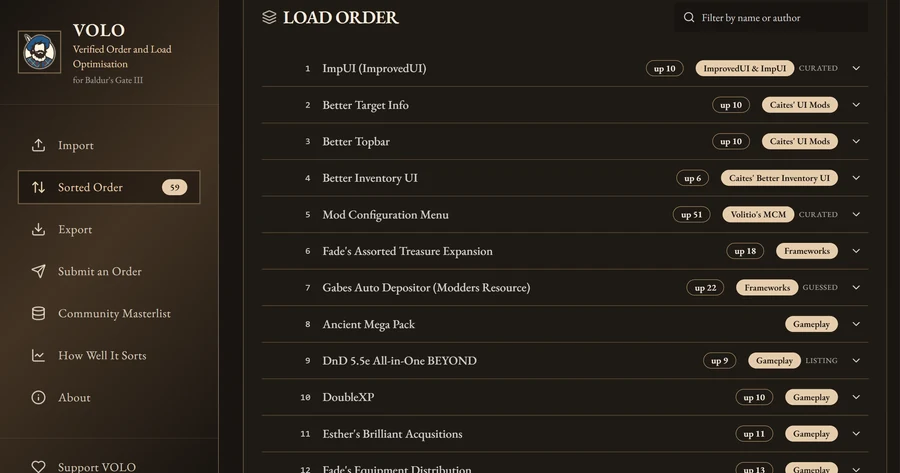
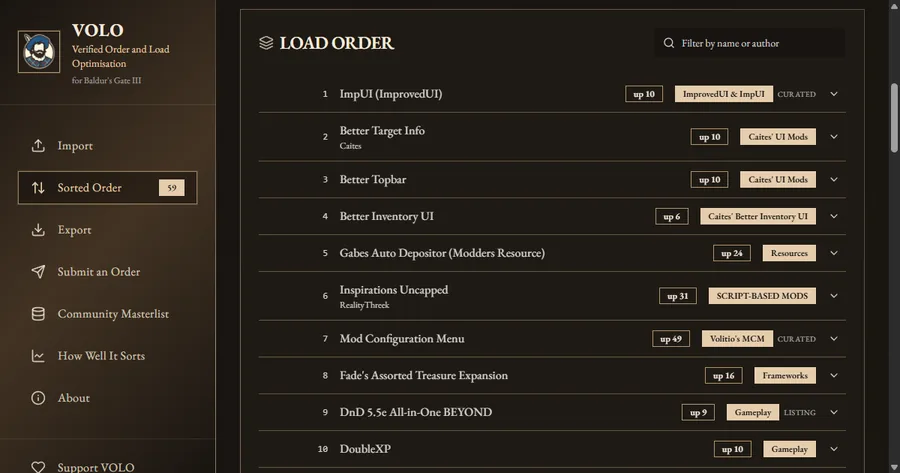
Square the corners the first pass missed, and reshoot the screenshot
Only rounded-sm, md and lg are wired to --radius. Everything else Tailwind
offers is a literal, and four places still used one after badges were squared:
every mod row in the sorted order, the two loading skeletons behind it, and the
export preview block. Fifty-nine rows a page, so it was the most visible corner
radius left on the site.

The mod row survived the first sweep because measuring /optimise without an
order finds an empty state and calls it clean. The rows only exist once there
is an order to draw.

The landing screenshot showed the old pills, having been taken on 9 August. It
is reshot from the same order it always came from, issue #1, which still sorts
to the same first rows. The alt text no longer promises a guessed label: the
masterlist has since learned where those mods go, so nothing in the picture
carries one.

All three sizes are smaller than what they replace, the png by 60 percent.

diff --git a/client/src/pages/OptimisePage.tsx b/client/src/pages/OptimisePage.tsx
@@ -354,9 +354,9 @@ export default function OptimisePage() {
     return (
       <div className="p-8 min-h-screen bg-gradient-to-br from-background via-background to-card">
         <div className="max-w-6xl mx-auto animate-pulse space-y-4">
-          <div className="h-10 w-1/3 rounded bg-card/50 border border-primary/20" />
+          <div className="h-10 w-1/3 bg-card/50 border border-primary/20" />
           {[...Array(6)].map((_, i) => (
-            <div key={i} className="h-14 rounded bg-card/30 border border-primary/10" />
+            <div key={i} className="h-14 bg-card/30 border border-primary/10" />
           ))}
         </div>
       </div>
@@ -555,7 +555,7 @@ export default function OptimisePage() {
                 const isOpen = expanded === mod.uuid;
                 return (
                   <li key={mod.uuid} className={isOpen ? undefined : 'row-defer'}>
-                    <div className="group flex items-center rounded transition-colors hover:bg-primary/5">
+                    <div className="group flex items-center transition-colors hover:bg-primary/5">
                     {/* Offered on mods with no category, and on the ones you
                         have already filed, so a wrong pick can be taken back. */}
                     {/*

diff --git a/client/src/pages/LandingPage.tsx b/client/src/pages/LandingPage.tsx
@@ -133,7 +133,7 @@ export default function LandingPage() {
               />
               <img
                 src="/assets/volo-sorted-order-preview.png"
-                alt="A sorted load order in VOLO. ImpUI sits first on its ImprovedUI slot, and each mod shows how far it moved, the slot it landed on such as Caites' UI Mods or Gameplay, and a note reading curated, listing or guessed wherever the placement came from something other than a played order."
+                alt="A sorted load order in VOLO. ImpUI sits first on its ImprovedUI slot, and each mod shows how far it moved, the slot it landed on such as Caites' UI Mods or Gameplay, and a note such as curated or listing wherever the placement came from something other than a played order."
                 width={1200}
                 height={630}
                 loading="lazy"

diff --git a/client/src/pages/ExportPage.tsx b/client/src/pages/ExportPage.tsx
@@ -302,7 +302,7 @@ export default function ExportPage() {
 
             <div>
               <p className="text-xs uppercase tracking-wider text-muted-foreground mb-2">Preview</p>
-              <pre className="max-h-72 overflow-auto rounded border border-border bg-card/50 p-4 text-xs font-mono">
+              <pre className="max-h-72 overflow-auto border border-border bg-card/50 p-4 text-xs font-mono">
                 {content.slice(0, 4000)}
                 {content.length > 4000 ? '\n(preview truncated)' : ''}
               </pre>

diff --git a/docs/decisions.md b/docs/decisions.md
@@ -270,12 +270,19 @@ event and was silent to anyone not watching it. Checkbox and radio rows were
 20 pixels tall against a 24 pixel minimum. The accordion trigger carried
 `transition-all`, which stood ready to animate whatever the open state changed.
 
-Two more were the design disagreeing with itself. `--radius` is 0 because the
+The rest were the design disagreeing with itself. `--radius` is 0 because the
 official BG3 site frames panels with thin borders and no corner radius
-anywhere, and two vendor defaults ignored it: `rounded-full` on badges, which
-is a literal 9999 pixels rather than the token, and a 4 pixel radius on the
-landing screenshot. Sixty-two badges a page were the largest single visual
-correction.
+anywhere, and only `rounded-sm`, `rounded-md` and `rounded-lg` are wired to
+that token. Everything else in Tailwind is a literal, and six places used one:
+`rounded-full` on badges at 9999 pixels, and a 4 pixel `rounded` on the landing
+screenshot, on every mod row in the sorted order, on the two loading skeletons
+behind it, and on the export preview block. Sixty-two badges and fifty-nine mod
+rows a page were the largest visual correction.
+
+The row radius is worth naming separately, because it survived the first sweep.
+Measuring `/optimise` before importing an order finds an empty state and
+declares it clean, and the rows only exist once there is an order to draw. Any
+check of a route that needs data has to load data first.
 
 Four of the first pass's findings were the measurement being wrong rather than
 the site. A 5 percent alpha overlay read as an opaque background until the
